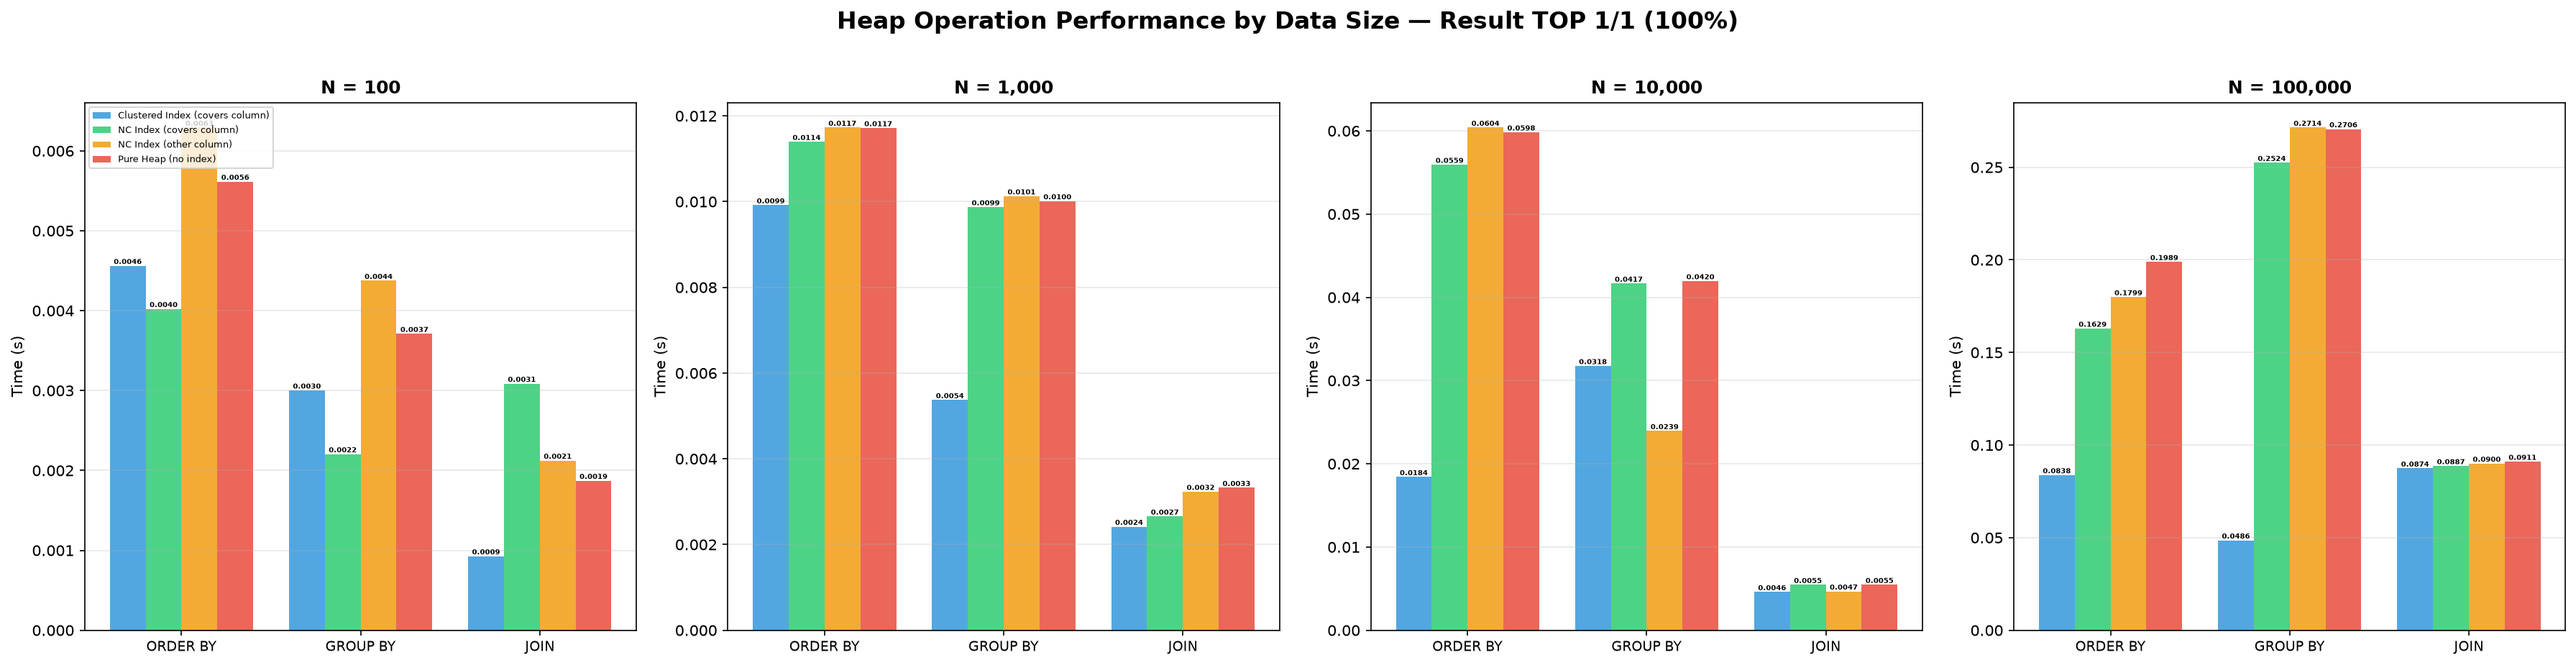
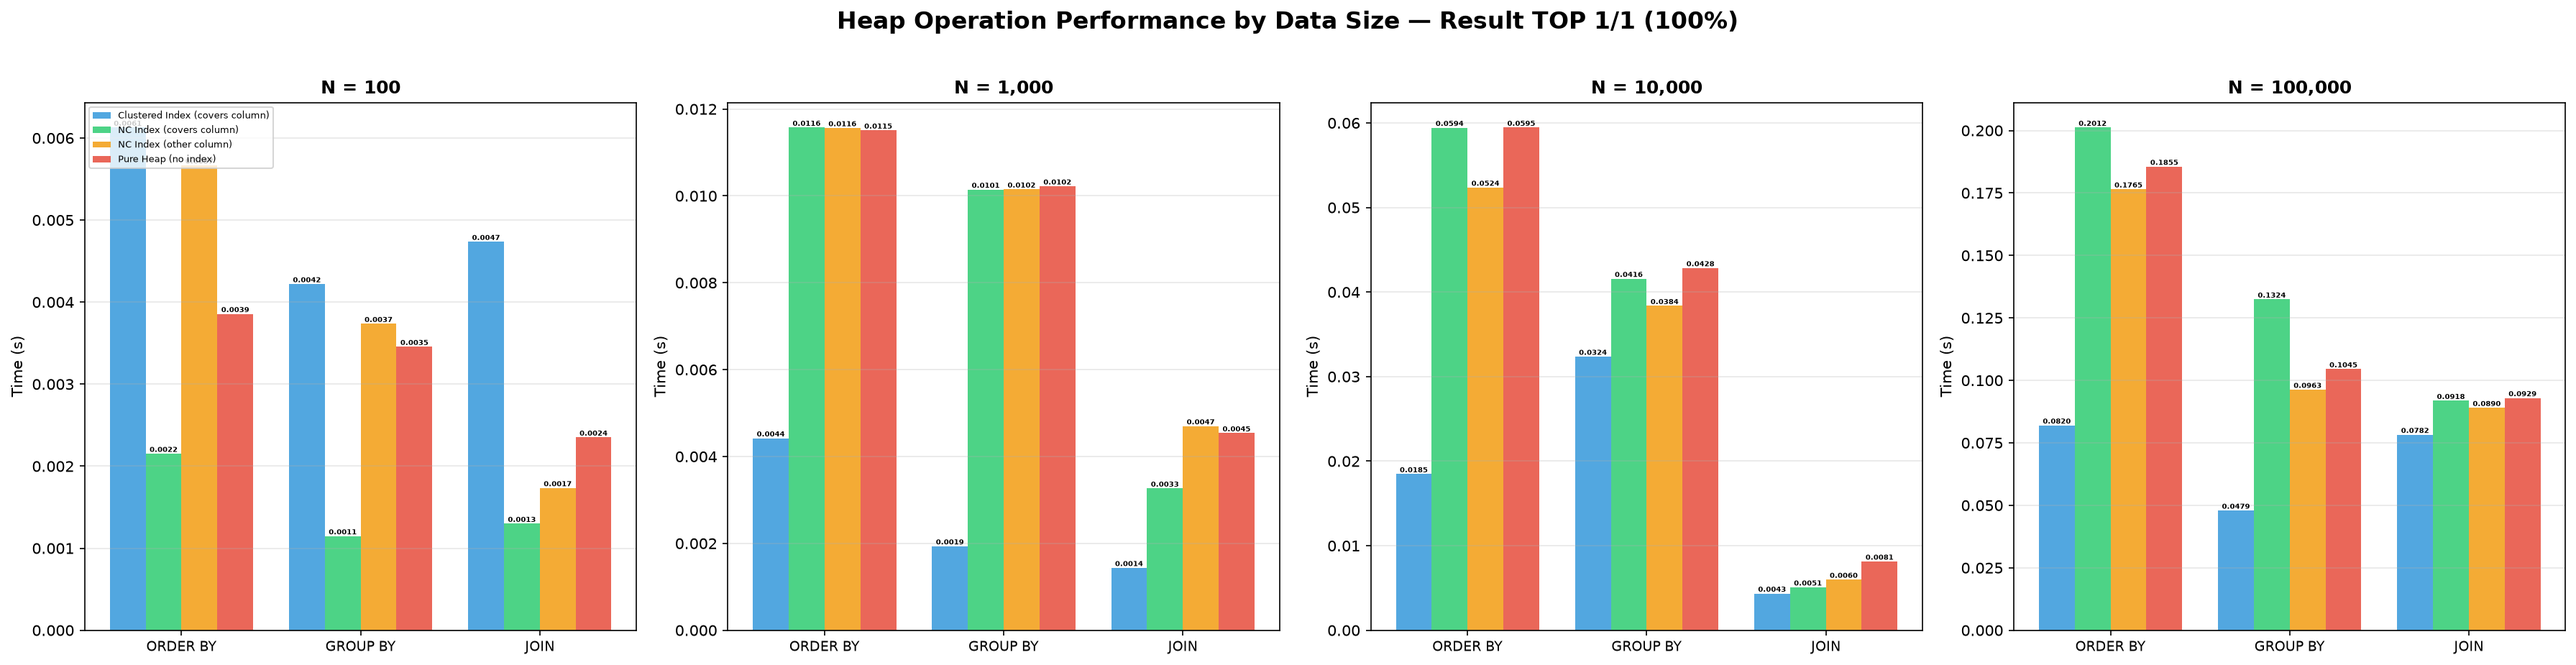
perf: update heap operation benchmarks and result assets with full dataset coverage

diff --git a/src/benchmark_heap_ops.py b/src/benchmark_heap_ops.py
@@ -46,7 +46,7 @@ REPEAT_COUNT = 100
 
 
 # Result TOP divisor: outer SELECT returns N/RESULT_TOP_DIVISOR rows
-RESULT_TOP_DIVISOR = 10
+RESULT_TOP_DIVISOR = 1
 RESULT_TOP_PCT = 100 / RESULT_TOP_DIVISOR
 
 # ── Three scenarios ───────────────────────────────────────────────────
